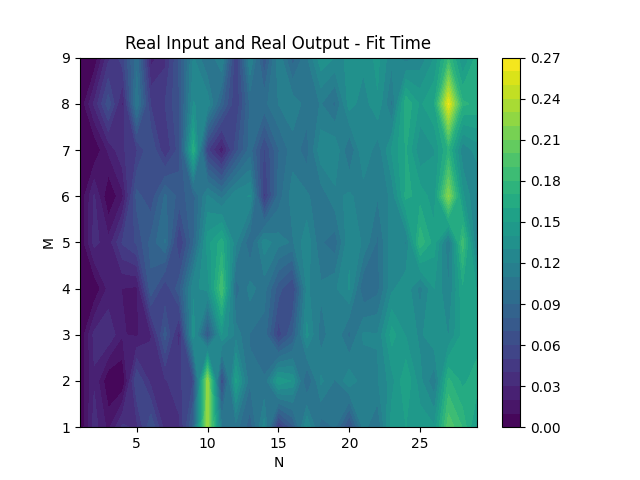
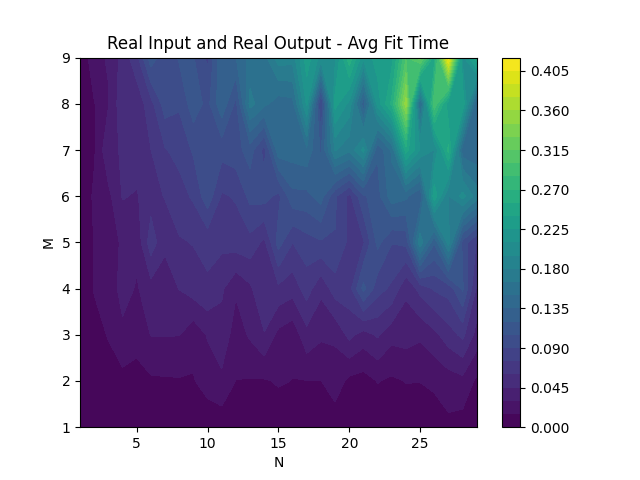
Final commit

diff --git a/experiments.py b/experiments.py
@@ -16,14 +16,14 @@ ioDict = {
 	'DR': 'Discrete Input and Real Output'
 }
 
-def create_dataset(N: int, M: int, type: Literal['RR', 'DD', 'RD', 'DR']):
+def create_dataset(N: int, M: int, DTtype: Literal['RR', 'DD', 'RD', 'DR']):
 
-	if type[0] == 'R':
+	if DTtype[0] == 'R':
 		X = pd.DataFrame(np.random.randn(N, M))
 	else:
 		X = pd.DataFrame({i:pd.Series(np.random.randint(2, size = N), dtype="category") for i in range(5)})
 
-	if type[1] == 'R':
+	if DTtype[1] == 'R':
 		y = pd.Series(np.random.randn(N))
 	else:
 		y = pd.Series(np.random.randint(2, size = N), dtype="category")
@@ -31,27 +31,33 @@ def create_dataset(N: int, M: int, type: Literal['RR', 'DD', 'RD', 'DR']):
 	return X, y
 
 # calculate average time taken by fit() and predict() for different N and P for 4 different cases of DTs
-def calculate_average_time(N: int, M: int, iterations: int, type: Literal['RR', 'DD', 'RD', 'DR']):
+def calculate_average_time(N: int, M: int, iterations: int, DTtype: Literal['RR', 'DD', 'RD', 'DR']):
 	
 	# create dataset
-	X, y = create_dataset(N, M, type)
+	X, y = create_dataset(N, M, DTtype)
 
 	# calculate average time taken by fit()
-	start = time.time()
+	temp = []
 	for i in range(iterations):
+		start = time.time()
 		tree = DecisionTree(criterion='information_gain', max_depth=5)
 		tree.fit(X, y)
-	end = time.time()
-	avg_fit_time = (end - start)/iterations
+		end = time.time()
+		temp.append(end-start)
+	avg_fit_time = np.mean(temp)
+	stdDev_fit_time = np.std(temp)
 
+	temp = []
 	# calculate average time taken by predict()
-	start = time.time()
 	for i in range(iterations):
+		start = time.time()
 		y_hat = tree.predict(X)
-	end = time.time()
-	avg_predict_time = (end - start)/iterations
+		end = time.time()
+		temp.append(end-start)
+	avg_predict_time = np.mean(temp)
+	stdDev_predict_time = np.std(temp)
 
-	return avg_fit_time, avg_predict_time
+	return avg_fit_time, avg_predict_time, stdDev_fit_time, stdDev_predict_time
 
 
 # Plot average time taken by fit() and predict()
@@ -60,24 +66,32 @@ def plot_results(n: int, m: int, iterations: int, DTtype: Literal['RR', 'DD', 'R
 	M = np.arange(1, m, 1)
 
 	avg_fit_time = []
+	std_fit_time = []
 	avg_predict_time = []
+	std_predict_time = []
 
 	for i in N:
 		temp_fit_time = []
+		temp_std_fit_time = []
 		temp_predict_time = []
+		temp_std_predict_time = []
 		for j in M:
-			fit_time, predict_time = calculate_average_time(i, j, iterations, 'DD')
-			temp_fit_time.append(fit_time)
-			temp_predict_time.append(predict_time)
+			outputTimes  = calculate_average_time(i, j, iterations, DTtype)
+			temp_fit_time.append(outputTimes[0])
+			temp_predict_time.append(outputTimes[1])
+			temp_std_fit_time.append(outputTimes[2])
+			temp_std_predict_time.append(outputTimes[3])
 
 		avg_fit_time.append(temp_fit_time)
 		avg_predict_time.append(temp_predict_time)
+		std_fit_time.append(temp_std_fit_time)
+		std_predict_time.append(temp_std_predict_time)
 
 	[M,N] = np.meshgrid(M,N)
 	fig, ax = plt.subplots(1,1)
 	cp = ax.contourf(N, M, avg_fit_time, levels=30)
 	fig.colorbar(cp)
-	ax.set_title(ioDict[DTtype] + ' - Fit Time')
+	ax.set_title(ioDict[DTtype] + ' - Avg Fit Time')
 	ax.set_xlabel('N')
 	ax.set_ylabel('M')
 	plt.savefig(f'img/{DTtype}_fit_time.png')
@@ -85,10 +99,26 @@ def plot_results(n: int, m: int, iterations: int, DTtype: Literal['RR', 'DD', 'R
 	fig, ax = plt.subplots(1,1)
 	cp = ax.contourf(N, M, avg_predict_time, levels=30)
 	fig.colorbar(cp)
-	ax.set_title(ioDict[DTtype] + ' - Predict Time')
+	ax.set_title(ioDict[DTtype] + ' - Avg Predict Time')
 	ax.set_xlabel('N')
 	ax.set_ylabel('M')
 	plt.savefig(f'img/{DTtype}_pred_time.png')
+
+	fig, ax = plt.subplots(1,1)
+	cp = ax.contourf(N, M, std_fit_time, levels=30)
+	fig.colorbar(cp)
+	ax.set_title(ioDict[DTtype] + ' - Std Dev in Fit Time')
+	ax.set_xlabel('N')
+	ax.set_ylabel('M')
+	plt.savefig(f'img/{DTtype}_std_fit_time.png')
+
+	fig, ax = plt.subplots(1,1)
+	cp = ax.contourf(N, M, std_predict_time, levels=30)
+	fig.colorbar(cp)
+	ax.set_title(ioDict[DTtype] + ' - Std Dev in Predict Time')
+	ax.set_xlabel('N')
+	ax.set_ylabel('M')
+	plt.savefig(f'img/{DTtype}_std_pred_time.png')
 
 # Plot for all four cases of DTs with N from 1 to 30 and M from 1 to 10 with average over 3 iterations
 plot_results(30, 10, 3, 'DD')

diff --git a/usage.py b/usage.py
@@ -21,7 +21,7 @@ print("==================================")
 print("Real Input and Real Output")
 
 N = 30
-P = 10
+P = 5
 X = pd.DataFrame(np.random.randn(N, P))
 y = pd.Series(np.random.randn(N))
 
@@ -29,8 +29,7 @@ for criteria in ['information_gain', 'gini_index']:
     tree = DecisionTree(criterion=criteria, max_depth=5) #Split based on Inf. Gain
     tree.fit(X, y)
     y_hat = tree.predict(X)
-    print(y_hat)
-    # tree.plot()
+    tree.plot()
     print('Criteria :', criteria)
     print('RMSE: ', rmse(y_hat, y))
     print('MAE: ', mae(y_hat, y))
@@ -42,8 +41,8 @@ print()
 print("==================================")
 print("Real Input and Discrete Output")
 
-N = 50
-P = 10
+N = 30
+P = 5
 X = pd.DataFrame(np.random.randn(N, P))
 y = pd.Series(np.random.randint(P, size = N), dtype="category")
 
@@ -65,7 +64,7 @@ print("==================================")
 print("Discrete Input and Discrete Output")
 
 
-N = 15
+N = 30
 P = 5
 X = pd.DataFrame({i:pd.Series(np.random.randint(P, size = N), dtype="category") for i in range(5)})
 X.columns = ['a', 'b', 'c', 'd', 'e']

diff --git a/classification-exp.py b/classification-exp.py
@@ -15,7 +15,7 @@ n_features=2, n_redundant=0, n_informative=2, random_state=1, n_clusters_per_cla
 # For plotting
 import matplotlib.pyplot as plt
 plt.scatter(X[:, 0], X[:, 1], c=y)
-plt.show()
+# plt.show()
 
 #Splitting X and y (numpy arrays) into two parts in ratio 7:3 and making it a pandas dataframe
 X_train, X_test = np.split(X, [int(X.shape[0] * 0.7)])

diff --git a/assignment_q4_subjective_answers.md b/assignment_q4_subjective_answers.md
@@ -1,0 +1,108 @@
+# Question 4
+
+
+## Goal
+The target was to plot time to fit and predict the Decision tree model against varying N, number of samples and M, number of features.
+
+We have tested these models on 4 different types of data i.e., Discrete Input and Discrete output, Discrete Input and Real output, Real Input and Discrete output, Real Input and Real output. We have plotted the time taken to fit and predict the model against the number of samples and number of features. We have also plotted the standard deviation in time taken to fit and predict the model against the number of samples and number of features.
+
+---
+## Procedure
+We used three functions to plot the graph
+* `create_dataset`
+* `calculate_average_time`
+* `plot_results`
+
+---
+## Results
+For each type of Decision Tree i.e.,
+* Discrete Input and Discrete output
+* Discrete Input and Real output
+* Real Input and Discrete output
+* Real Input and Real output
+
+We have 4 plots, one for each of the following
+* Average Time to fit the model
+* Average Time to predict the model
+* Standard Deviation in Time to fit the model
+* Standard Deviation in Time to predict the model
+
+So, in total we have 16 plots.
+
+## Discrete Input and Discrete output
+&nbsp;
+<div style="text-align:center"><img src="./img/DD_fit_time.png" /></div>
+<div style="text-align:center"><img src="./img/DD_pred_time.png" /></div>
+As we can see from the above plot, the time taken to fit the model increases with the number of samples and number of features.
+The time taken to predict the model is dependent on the input. The prediction ends soon in some cases and takes a lot of time in some cases. But the average time taken to predict the model is almost increases with respect to the number of samples and number of features.
+
+&nbsp;
+<div style="text-align:center"><img src="./img/DD_std_fit_time.png" /></div>
+<div style="text-align:center"><img src="./img/DD_std_pred_time.png" /></div>
+
+---
+
+## Discrete Input and Real output
+&nbsp;
+<div style="text-align:center"><img src="./img/DR_fit_time.png" /></div>
+<div style="text-align:center"><img src="./img/DR_pred_time.png" /></div>
+
+&nbsp;
+<div style="text-align:center"><img src="./img/DR_std_fit_time.png" /></div>
+<div style="text-align:center"><img src="./img/DR_std_pred_time.png" /></div>
+
+---
+
+## Real Input and Discrete output
+&nbsp;
+<div style="text-align:center"><img src="./img/RD_fit_time.png" /></div>
+<div style="text-align:center"><img src="./img/RD_pred_time.png" /></div>
+As we can see from the above plot, the time taken to fit and predict the model increases with both number of samples and number of features.
+The average time to predict has random flashes which shows dependence on input.
+
+&nbsp;
+<div style="text-align:center"><img src="./img/RD_std_fit_time.png" /></div>
+<div style="text-align:center"><img src="./img/RD_std_pred_time.png" /></div>
+
+---
+
+## Real Input and Real output
+&nbsp;
+<div style="text-align:center"><img src="./img/RR_fit_time.png" /></div>
+<div style="text-align:center"><img src="./img/RR_pred_time.png" /></div>
+
+&nbsp;
+<div style="text-align:center"><img src="./img/RR_std_fit_time.png" /></div>
+<div style="text-align:center"><img src="./img/RR_std_pred_time.png" /></div>
+
+---
+
+## Conclusion
+We have tested this model for various input but due to limitation of time and computing power of our system we could only test for small values of N and M.
+
+For large values of N and M, we can check the mathematical time complexity of the model in following ways.
+
+### Discrete Input
+For Discrete Input, the time complexity to fit the model depends on number of samples N, number of features M and let the number of classes in a feature be of order $ O(C) .$ <br> 
+${C^m}$ is the maximum number of possible combinations of features. <br>
+So, if $ N > C^m $ then all possible inputs are exhauseted and there is repetition. <br>
+So, the time complexity is dependent on $ O( min(N, C^m)) $ <br>
+Also for splitting the data, we have to find the best feature and best threshold, which has a complexity of $ O(NM) $ <br>
+The plots in for discrete imput are for low values of N,M and C. So, those plots are not very accurate and not able to show complete picture. <br>
+For prediction we can at a max ask M questions of features which gives time complexity as $ O(M) $ <br>
+
+### Real Input
+For Real Input, the time complexity to fit the model depends on number of samples N, number of features M. In each iteration, we find information gain of a coloumn with N sample and at each split it takes $ O(N) $ time.  <br>
+So, for calculation of node we have, $ O(M \times N \times N) $ <br>
+In the worst case we will have N nodes(One for each sample). <br>
+Time complexity for fitting the model is $ O(M \times N \times N \times N) = O(N^3 M) $ <br>
+
+For prediction we have to traverse the worst tree of depth N completely so we have time complexity as $ O(N) $ <br>
+
+---
+## References
+* [Decision Tree Classifier](https://scikit-learn.org/stable/modules/generated/sklearn.tree.DecisionTreeClassifier.html)
+* [Decision Tree Regressor](https://scikit-learn.org/stable/modules/generated/sklearn.tree.DecisionTreeRegressor.html)
+* [pandas](https://devdocs.io/pandas~0.25/ )
+* [numpy](https://numpy.org/devdocs/user/)
+* [ID3](https://www.kdnuggets.com/2020/01/decision-tree-algorithm-explained.html )

diff --git a/README.md b/README.md
@@ -1,3 +1,8 @@
+Use output.txt as the output file for better formatting.
+``` 
+python "filename.py" > output.txt 
+```
+
 ### Questions
 
 1. Complete the decision tree implementation in tree/base.py. **[5 marks]**
